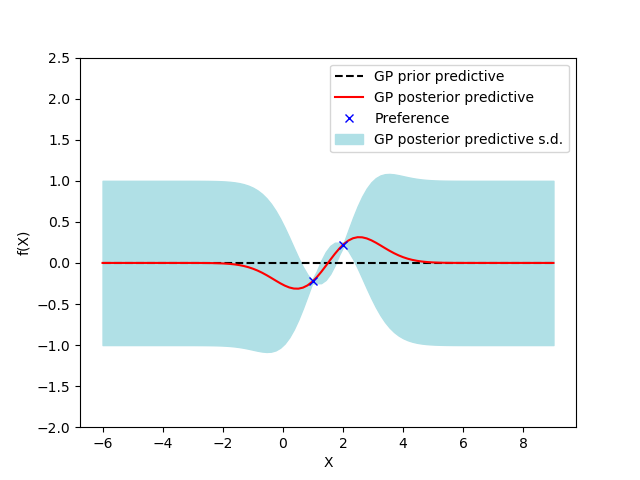
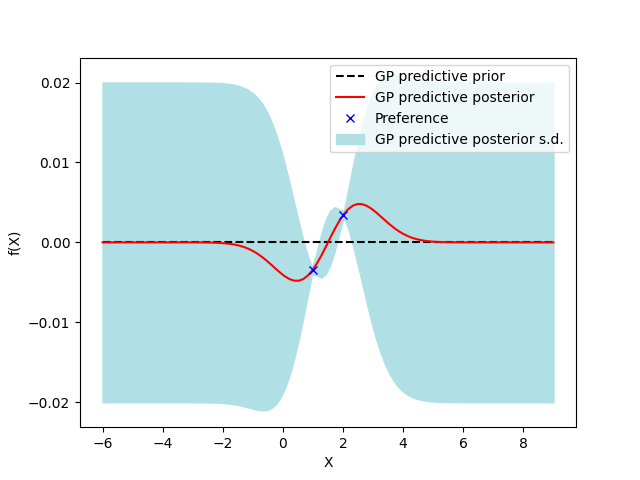
travis python versions

diff --git a/README.md b/README.md
@@ -41,6 +41,7 @@ Checkout the package docstrings for more information.
 ```python
 from GPro.preference import ProbitPreferenceGP
 import numpy as np
+import matplotlib.pyplot as plt
 ```
 Training data consisting of numeric real positive values.
 A minimum of two values is required. The following example is in 1D.
@@ -76,12 +77,12 @@ plt.plot(X_new, predicted_values, 'r-', label='GP predictive posterior')
 plt.plot(X.flat, gpr.predict(X).flat, 'bx', label='Preference')
 plt.ylabel('f(X)')
 plt.xlabel('X')
+# the predicted s.d. is devided for an aesthetic purpose.
 plt.gca().fill_between(X_new.flatten(),
-                       (predicted_values - predicted_deviations).flatten(),
-                       (predicted_values + predicted_deviations).flatten(),
+                       (predicted_values - predicted_deviations / 50).flatten(),
+                       (predicted_values + predicted_deviations / 50).flatten(),
                        color="#b0e0e6", label='GP predictive posterior s.d.')
 plt.legend()
-plt.ylim([-2, 2])
 plt.show()
 ```
 The following plot shows how the posterior predictive Gaussian process is adjusted to 
@@ -119,7 +120,7 @@ GP_params = {'kernel': Matern(length_scale=1, nu=2.5),
                                     eta=0.01, tol=1e-3),
              'acquisition': UCB(kappa=2.576),
              'alpha': 1e-5,
-             'random_state': 2020}
+             'random_state': None}
 ```
 Instantiate a ProbitBayesianOptimization object with custom parameters.
 ```python
@@ -226,13 +227,13 @@ GP_params = {'kernel': Matern(length_scale=1, nu=2.5),
                                     eta=0.01, tol=1e-3),
              'acquisition': UCB(kappa=2.576),
              'alpha': 1e-5,
-             'random_state': 2020}
+             'random_state': None}
 # instantiate a ProbitBayesianOptimization object with custom parameters
 gpr_opt = ProbitBayesianOptimization(X, M, GP_params)
 ```
 Function optimization method.
 ```python
-function_opt = gpr_opt.function_optimization(f=f, bounds=bounds, max_iter=d*10,
+function_opt = gpr_opt.function_optimization(f=f, bounds=bounds, max_iter=50,
                                              n_init=1000, n_solve=1)
 
 optimal_values, X_post, M_post, f_post = function_opt
